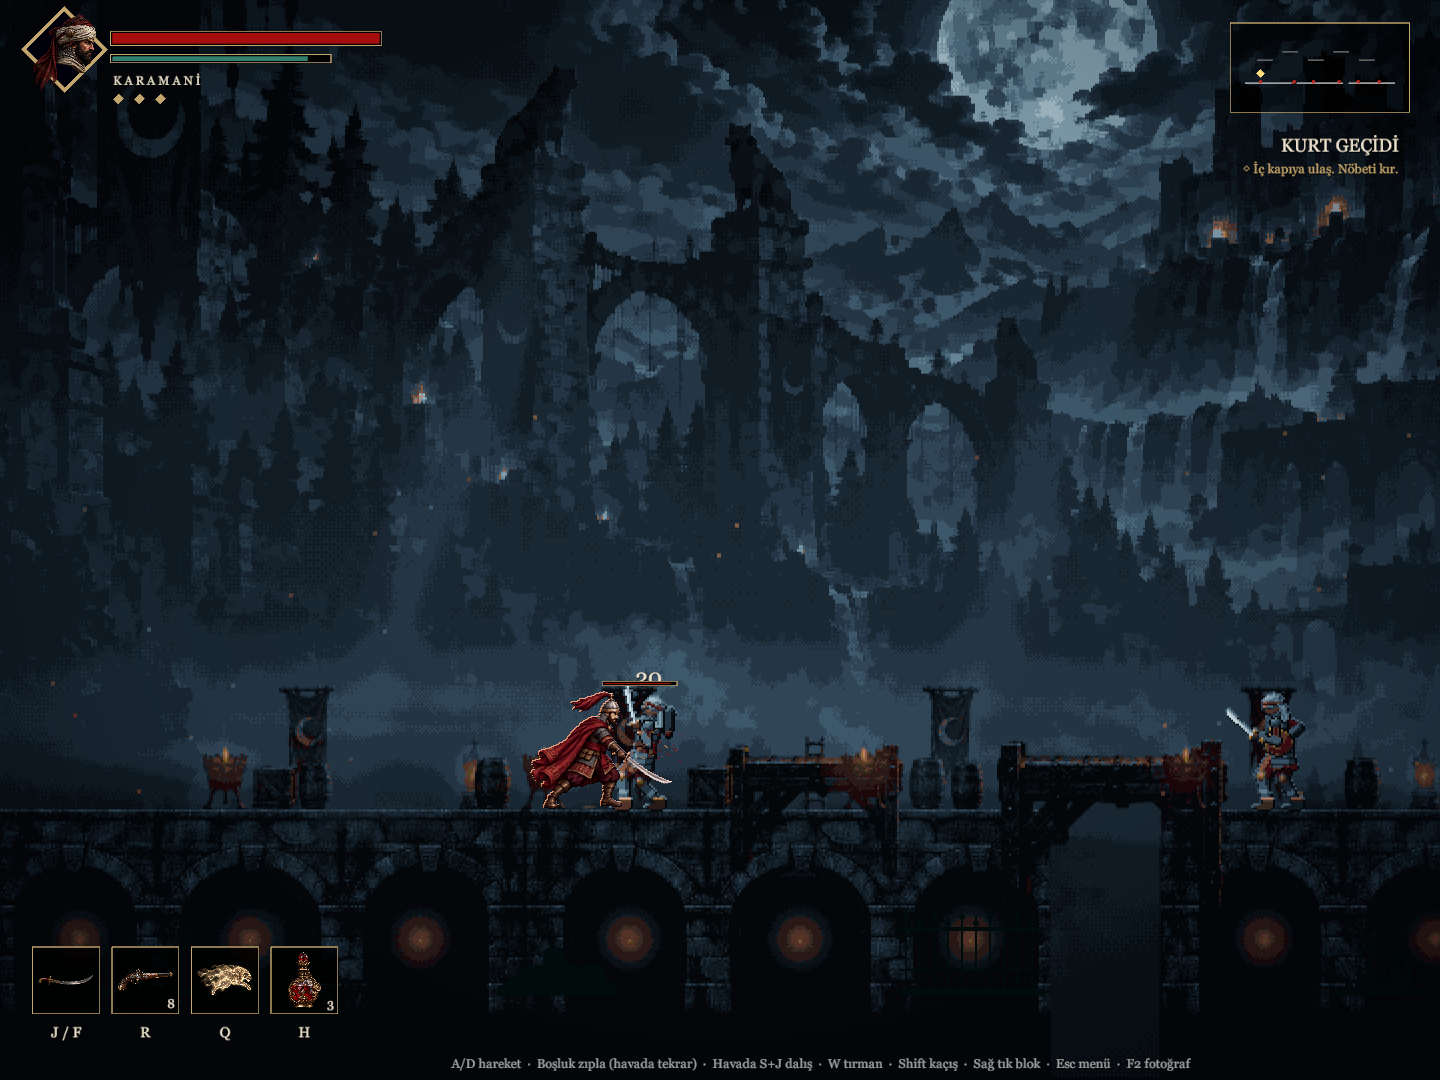
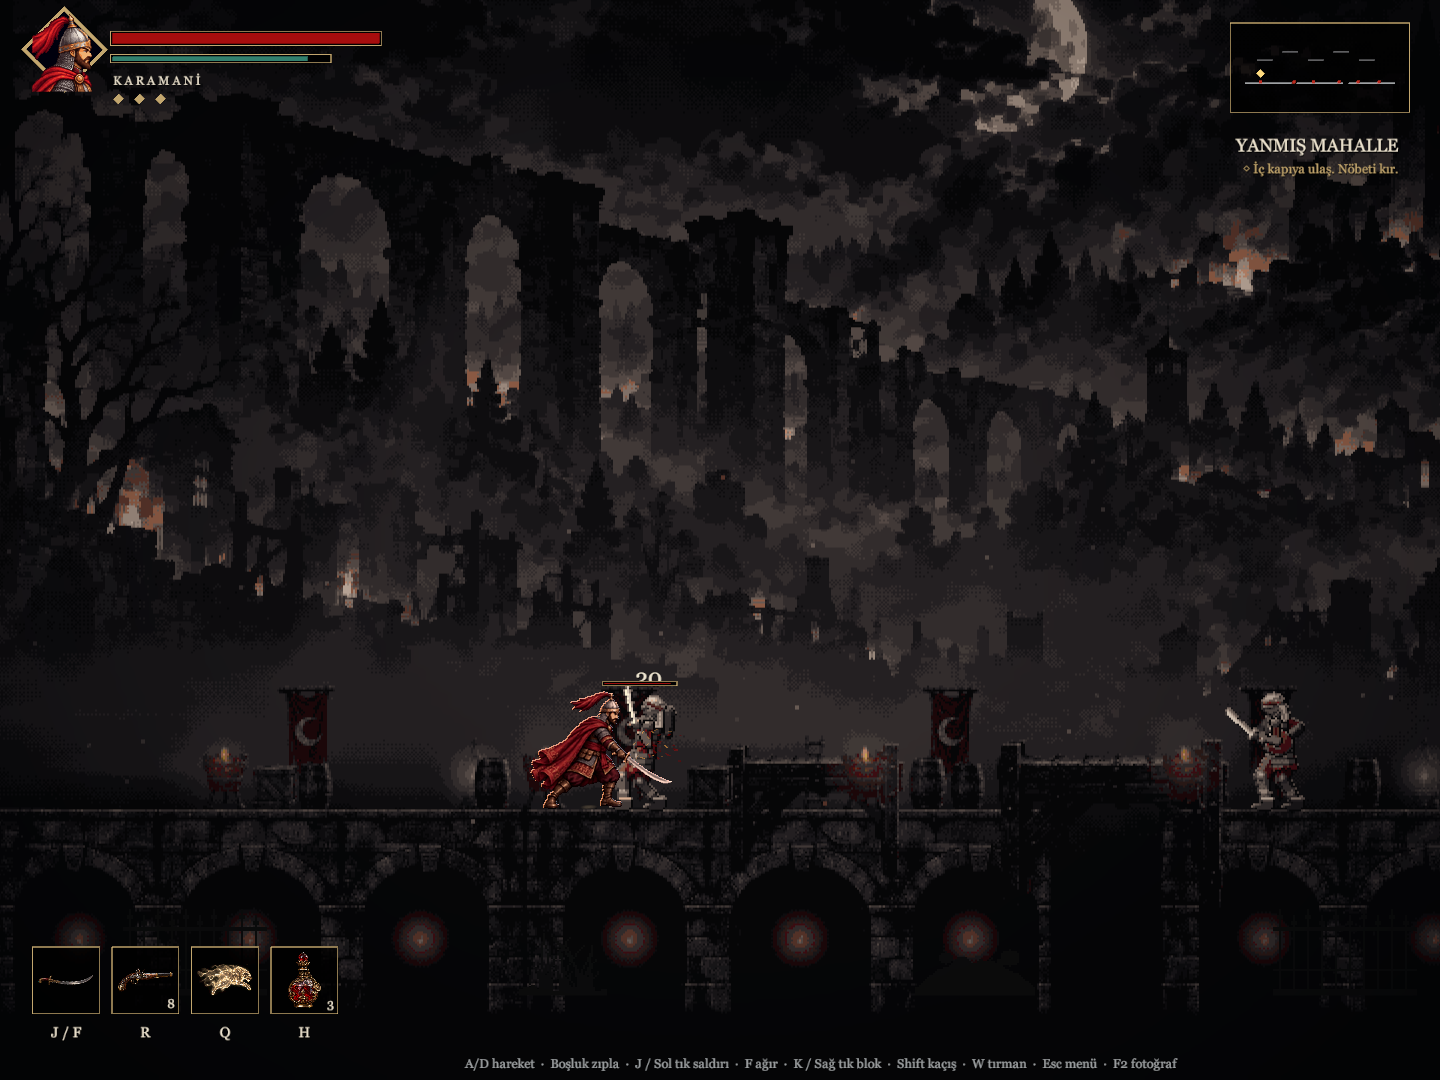
Portre, kontrol ipuçları ve yürüyüşteki kılıç kırıntısı düzeltildi
- Arayüz portresi HD Karamani'nin bekleme karesinden (Characters/hd/hero-portrait)
- Menü ve oyun içi ipuçları aynı tuşları gösterir: J / Sol tık, F, K / Sağ tık; savuşturma açıklaması
- Yürüme karelerinde yan karenin kılıç ucu silindi (hd_sheet EDGE_BLADE 'walk')

diff --git a/KaramaniReborn/Assets/Scripts/GameHUD.cs b/KaramaniReborn/Assets/Scripts/GameHUD.cs
@@ -46,7 +46,10 @@ namespace KaramaniReborn
             var p = playUI.transform;
             var portraitFrame = ImageAt(p, "Portrait ornament", 45, 25, 82, 82, gold); CenterRect(portraitFrame.rectTransform); portraitFrame.transform.localRotation = Quaternion.Euler(0, 0, -45);
             var portraitInner = ImageAt(p, "Portrait inset", 50, 30, 72, 72, new Color(.023f, .025f, .026f)); CenterRect(portraitInner.rectTransform); portraitInner.transform.localRotation = Quaternion.Euler(0, 0, -45);
-            ImageAt(p, "Painted portrait", 43, 18, 86, 104, Color.white, ArtLibrary.Rig(false)[0]).preserveAspect = true;
+            // Portre: HD Karamani'nin bekleme karesinden baş (Tools/hd_sheet.py); yoksa eski boyalı baş
+            var face = Resources.Load<Texture2D>("Characters/hd/hero-portrait");
+            var portrait = face ? Sprite.Create(face, new Rect(0, 0, face.width, face.height), new Vector2(.5f, .5f), 100) : ArtLibrary.Rig(false)[0];
+            ImageAt(p, "Painted portrait", 43, 18, 86, 104, Color.white, portrait).preserveAspect = true;
             health = FramedBar(p, 148, 42, 360, 18, new Color(.65f, .035f, .035f));
             stamina = FramedBar(p, 148, 73, 293, 10, new Color(.20f, .50f, .43f));
             Label(p, "K A R A M A N İ", 151, 98, 330, 26, 16, ivory);
@@ -79,7 +82,7 @@ namespace KaramaniReborn
             interaction = Label(p, "", 620, 860, 680, 40, 19, ivory, TextAnchor.MiddleCenter);
             notice = Label(p, "", 490, 818, 940, 40, 21, gold, TextAnchor.MiddleCenter);
             chapter = Label(LayoutGroup(playUI.transform, "Chapter heading", GameView.MiddleOffset), "", 460, 245, 1000, 180, 34, ivory, TextAnchor.MiddleCenter);
-            Label(p, "A/D hareket  ·  Boşluk zıpla (havada tekrar)  ·  Havada S+J dalış  ·  W tırman  ·  Shift kaçış  ·  Sağ tık blok  ·  Esc menü  ·  F2 fotoğraf", 480, 1043, 1230, 25, 17, muted, TextAnchor.MiddleCenter);
+            Label(p, "A/D hareket  ·  Boşluk zıpla  ·  J / Sol tık saldırı  ·  F ağır  ·  K / Sağ tık blok  ·  Shift kaçış  ·  W tırman  ·  Esc menü  ·  F2 fotoğraf", 480, 1043, 1230, 25, 17, muted, TextAnchor.MiddleCenter);
             numberRoot = Group(playUI.transform, "Damage numbers").transform;
             bossGroup = Group(p, "Boss encounter");
             bossName = Label(bossGroup.transform, "", 500, 961, 920, 34, 23, ivory, TextAnchor.MiddleCenter);
@@ -105,7 +108,7 @@ namespace KaramaniReborn
                 Label(m, ZoneDefinition.Create(i).title, x + 12, y + 118, 279, 30, 16, ivory, TextAnchor.MiddleCenter);
             }
             selectedName = Label(m, "", 996, 854, 641, 30, 18, gold, TextAnchor.MiddleCenter);
-            Label(m, "Sol tık saldırı · F ağır darbe · Sağ tık savuşturma, ardından saldırı: infaz\nBoşluk zıplama (havada tekrar) · Havada S + sol tık dalış · W kenara tırman\nShift + yön kaçış, yalnız Shift geri adım · Q kurt · R tabanca · H iksir", 121, 816, 733, 89, 17, muted);
+            Label(m, "J / Sol tık saldırı · F ağır darbe · K / Sağ tık blok\nBloğu tam zamanında aç: savuşturma, ardından saldırı: infaz\nBoşluk zıpla (havada tekrar) · Havada S + J dalış · W kenara tırman\nShift + yön kaçış, yalnız Shift geri adım · Q kurt · R tabanca · H iksir", 121, 806, 733, 112, 17, muted);
 
             pauseUI = CenterPanel("DURAKLATILDI", "Nefes al. Surlar bekler.", out var pauseParent);
             ButtonAt(pauseParent, "DEVAM ET", 724, 575, 472, 52, game.TogglePause);

diff --git a/KaramaniReborn/Tools/hd_sheet.py b/KaramaniReborn/Tools/hd_sheet.py
@@ -69,7 +69,7 @@ GRIP = {
 }
 FEET = {'dive'}   # alt sınır kılıç ucu değil çizmeler: karakterin konumu ayaklarıdır
 # kaynak sayfada komşu karenin kılıç ucu bu karelerin sol kenarına biniyor (klip -> kare sırası; None: hepsi)
-EDGE_BLADE = {'heavy': None, 'spirit': [4]}
+EDGE_BLADE = {'heavy': None, 'spirit': [4], 'walk': None}
 # komşu karenin pelerin parçası sağ kenara biniyor: (klip, kare) -> sağdan temizlenecek sütun (258 px ölçeğinde)
 EDGE_RED = {('spirit', 3): 40}
 MUZZLE = {'shoot'}   # bu kliplerde kılıç kökü yerine tabanca: mermi BladeRoot + (0,46; 0,06) birimden çıkar
@@ -336,6 +336,18 @@ def build(variant, clips):
     print(variant, sheet.shape, 'frames', len(frames), 'cell', fw, fh, [(c['name'], c['count'], round(c['stride'], 1)) for c in out_clips])
 
 
+PORTRAIT = {'hero': ('idle', 0, (52, 0, 118, 80))}   # arayüz portresi: kaynak kare ve baş kırpması (258 px ölçeğinde)
+
+
+def portrait(variant):
+    clip, k, box = PORTRAIT[variant]
+    im = Image.open(CLIPS[variant][clip][k]).convert('RGBA').crop(box)
+    im.save(os.path.join(OUT, variant + '-portrait.png'))
+    print(variant, 'portrait', im.size)
+
+
 if __name__ == '__main__':
     for v, c in CLIPS.items():
         build(v, c)
+        if v in PORTRAIT:
+            portrait(v)

diff --git a/KaramaniReborn/Docs/TASK_BOARD.md b/KaramaniReborn/Docs/TASK_BOARD.md
@@ -31,11 +31,11 @@ Status values: `proposed` · `active` · `review` · `done` · `blocked` · `wai
 | B-04 | Vista mosaic and checker-dither artefacts (ch4 clouds, ch1 haze) | vfx-specialist | Polish |
 | B-05 | Level is only ~2 screens wide at the 12% view (length 57 u vs 28.8 u view); 5 guards crowd two screens; upper half of the view unused | integrator + user (design) | Major |
 | B-06 | Enemies are still low-res pixel sheets next to the HD hero (style clash) | integrator (needs user sheets) | Major |
-| B-07 | HUD portrait is the retired turban rig head, not the helmeted design | integrator | Major |
+| B-07 | HUD portrait is the retired turban rig head, not the helmeted design | integrator | Fixed 2026-10-12 (portrait from HD idle head; hints unified J/Sol tık, K/Sağ tık; walk edge blade removed) |
 | B-08 | Actors have no body separation: hero walks into / overlaps enemies | gameplay-engineer + user (design) | Medium |
 | B-09 | World RT is 2896×2176 at Supersample 4 after the 720×540 view; possible stutter on MX130 (option: Supersample 2) | unity-tester measure, integrator | Medium (unmeasured) |
-| B-10 | Menu hint says left click to attack, HUD shows J/F; K block not shown | integrator | Minor |
-| B-11 | Walk frames 9-14 keep a stray blade fragment from the AI sheet | integrator | Minor |
+| B-10 | Menu hint says left click to attack, HUD shows J/F; K block not shown | integrator | Fixed 2026-10-12 (portrait from HD idle head; hints unified J/Sol tık, K/Sağ tık; walk edge blade removed) |
+| B-11 | Walk frames 9-14 keep a stray blade fragment from the AI sheet | integrator | Fixed 2026-10-12 (portrait from HD idle head; hints unified J/Sol tık, K/Sağ tık; walk edge blade removed) |
 | B-12 | No version control: all work only on disk + manual `_yedek` | user decision (git init) | Major (risk) |
 
 Proposed slice VS-01 tasks are in `Docs/specs/VS-01-proposal.md` and get IDs here when the user approves the slice.
